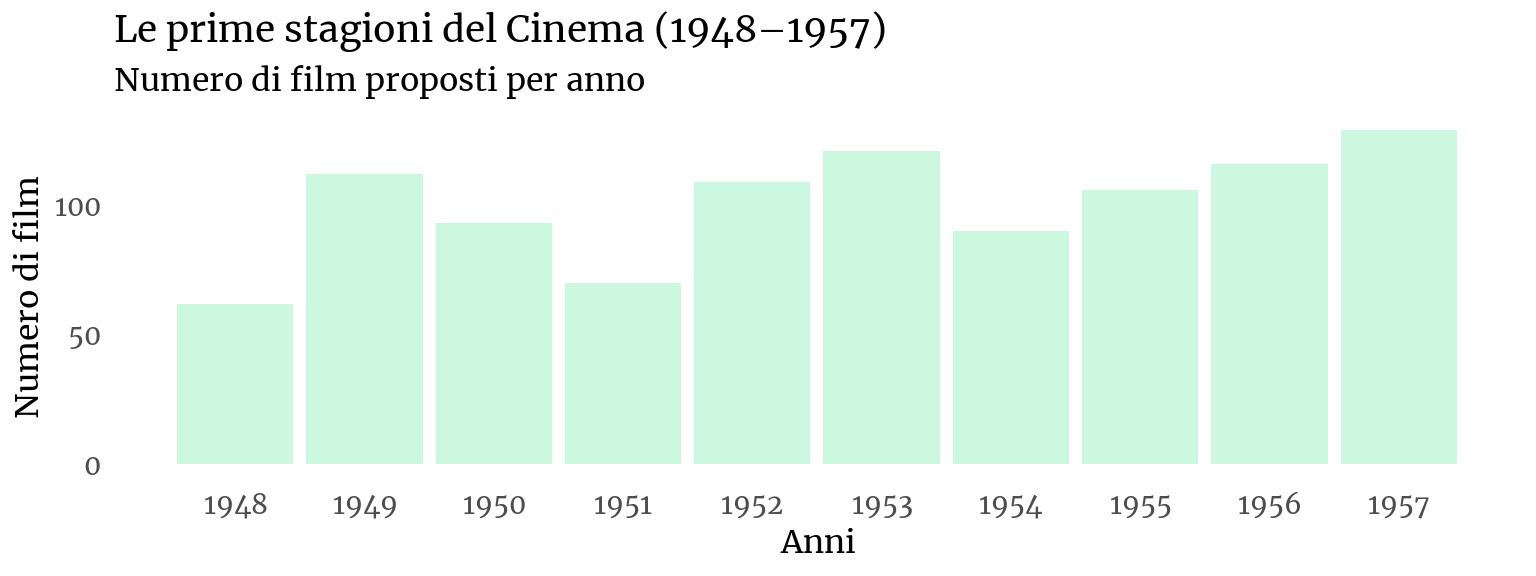
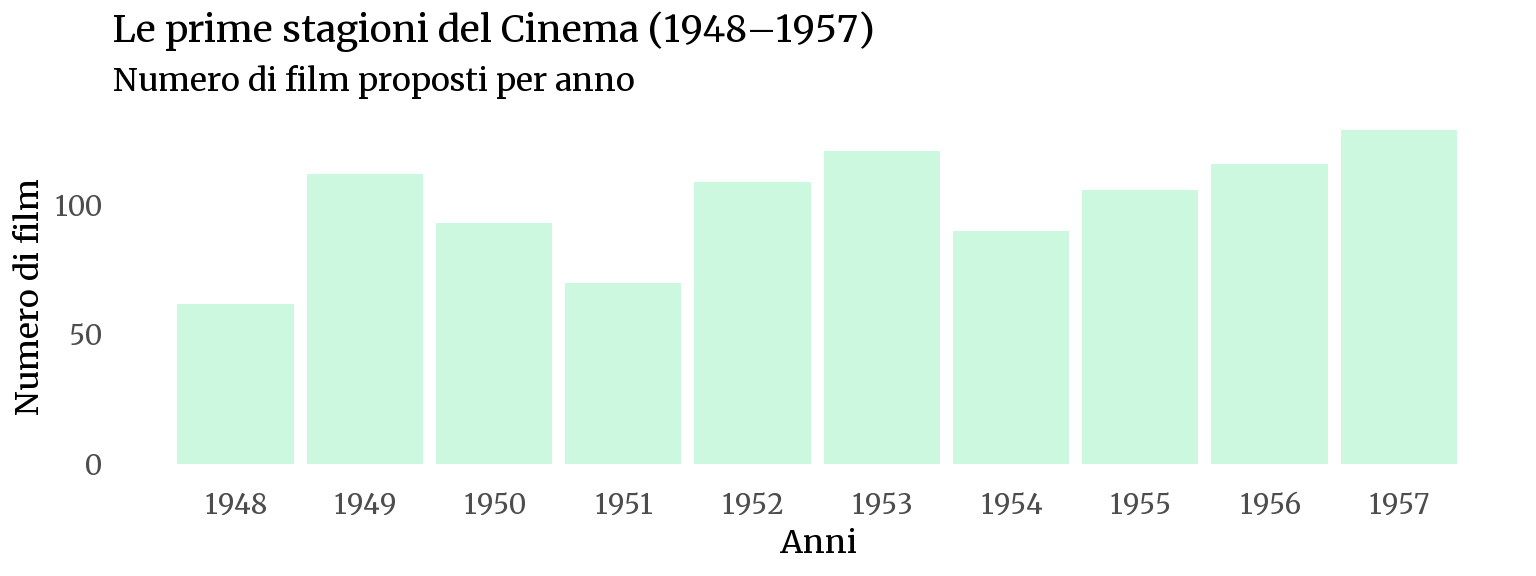
add descriptions to articles and update image attributes for accessibility

diff --git a/content/articoli/2023-04-27-la-nascita-del-cinema-a-san-vito/index.md b/content/articoli/2023-04-27-la-nascita-del-cinema-a-san-vito/index.md
@@ -39,7 +39,7 @@ La struttura era suddivisa in quattro ambienti: ingresso, cabina di proiezione, 
 
 Dopo diversi mesi di lavoro e burocrazia, il **19 marzo 1949** il prefetto di Catanzaro rilasciò a Vito Sestito l’autorizzazione ufficiale per gli spettacoli pubblici[^3]. L’inaugurazione del **Cinema di Piazza Mario Polerà** fu accolta con entusiasmo: la notizia si diffuse rapidamente nei paesi vicini, e la piccola sala non riusciva a contenere tutti gli spettatori. Si rese così necessario un **calendario d’ingresso per paese**, un sistema ingegnoso che dimostra la straordinaria partecipazione popolare.
 
-<img src="{{< blogdown/postref >}}index_files/figure-html/unnamed-chunk-1-1.png" width="768" />
+<img src="{{< blogdown/postref >}}index_files/figure-html/unnamed-chunk-1-1.png" alt="" width="768" />
 
 Ogni proiezione era preceduta da brevi intermezzi musicali e da "[La Settimana Incom](https://www.archivioluce.com/la-settimana-incom/)", cinegiornale che diffondeva notizie di attualità e sport, simbolo della nuova Italia repubblicana.
 
@@ -59,7 +59,7 @@ Negli anni Cinquanta il cinema dovette spesso confrontarsi con la morale cattoli
 
 Tali episodi rivelano il delicato equilibrio tra iniziativa culturale, controllo morale e autorità ecclesiastica, tipico delle realtà provinciali dell’Italia del tempo.
 
-<img src="{{< blogdown/postref >}}index_files/figure-html/unnamed-chunk-2-1.png" width="768" />
+<img src="{{< blogdown/postref >}}index_files/figure-html/unnamed-chunk-2-1.png" alt="" width="768" />
 
 ## Verso un nuovo cinema
 

diff --git a/content/articoli/2025-11-05-gli-anni-d-oro-del-cinema-teatro-sestito/index.md b/content/articoli/2025-11-05-gli-anni-d-oro-del-cinema-teatro-sestito/index.md
@@ -15,7 +15,7 @@ Il periodo compreso tra il 1957 e il 1979 rappresenta per il *Cinema Sestito* la
 
 I dati provenienti dal registro delle proiezioni mostrano un periodo costante del numero di film proposti fino al 1966, anno che segna l’apice dell’attività. A partire dalla fine degli anni Settanta, tuttavia, la curva inizia a scendere, riflettendo i mutamenti del mercato, la diffusione della televisione e l’emergere di nuove forme di intrattenimento. Nel 1979 il calo diventa significativo, aprendo una fase di progressivo ridimensionamento dell’offerta.
 
-<img src="{{< blogdown/postref >}}index_files/figure-html/unnamed-chunk-1-1.png" width="768" />
+<img src="{{< blogdown/postref >}}index_files/figure-html/unnamed-chunk-1-1.png" alt="" width="768" />
 
 ## La costruzione del nuovo cinema in Via Doria
 

diff --git a/content/programmazione-storica/fonti/_index.md b/content/programmazione-storica/fonti/_index.md
@@ -21,7 +21,7 @@ Le principali tipologie di fonti sono:
 4. ✍  **[Appunti](/categories/appunti/)**, blocchi o fogli sciolti su cui erano annotati i film mese per mese, talvolta accompagnati dai relativi incassi.
 5. 🎞 Manifesti e locandine sono stati consultati come riscontro per le date, ma non catalogati in modo sistematico.
 
-<img src="/programmazione-storica/fonti/_index_files/figure-html/unnamed-chunk-1-1.png" width="768" />
+<img src="/programmazione-storica/fonti/_index_files/figure-html/unnamed-chunk-1-1.png" alt="" width="768" />
 
 ---
 
